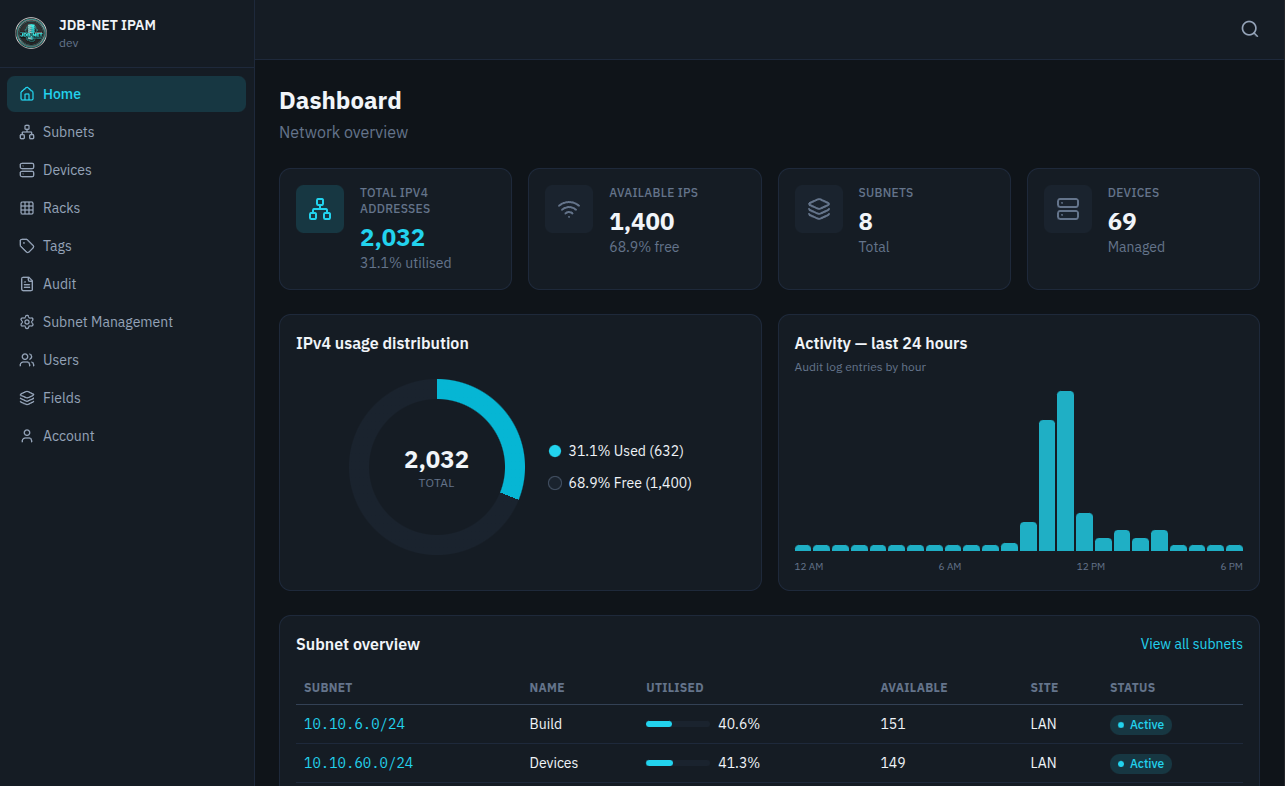
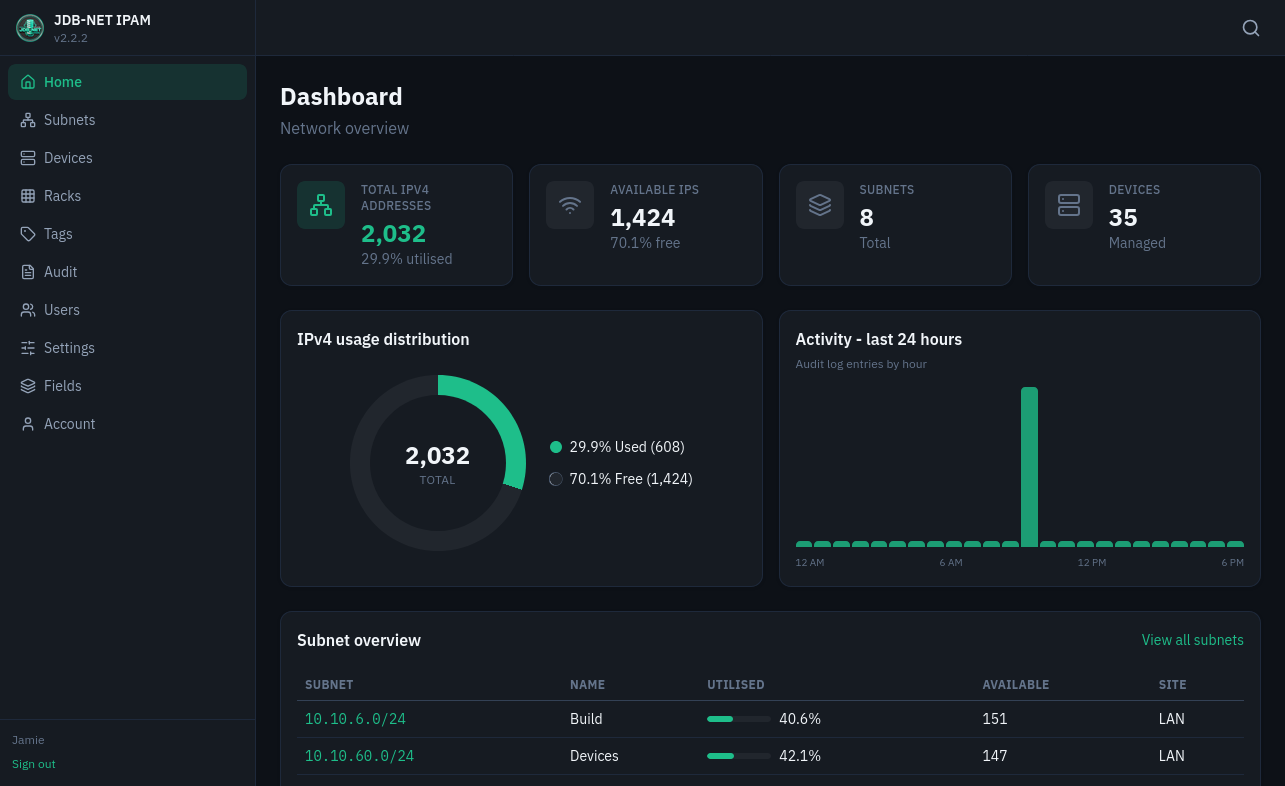
docs: :memo: update readme

diff --git a/README.md b/README.md
@@ -1,6 +1,6 @@
 <div align="center">
 
-  <h1>JDB-NET IPAM</h1>
+  <h1>IPAM</h1>
 
   <p>Open source IP address management for homelabs, small businesses, and IT teams.</p>
 
@@ -8,13 +8,10 @@
     <a href="https://github.com/jdbnet/ipam/blob/main/LICENSE">
       <img src="https://img.shields.io/github/license/jdbnet/ipam" alt="License" />
     </a>
-    <a href="https://cr.jdbnet.co.uk">
-      <img src="https://img.shields.io/badge/container-cr.jdbnet.co.uk-blue" alt="Container" />
-    </a>
   </p>
 
   <p>
-    <a href="https://www.jdbnet.co.uk/product/ipam"><strong>☁ Managed hosting from £8/month →</strong></a>
+    <a href="https://www.jdbnet.co.uk/product/ipam"><strong>☁ Managed hosting from £8/month</strong></a>
   </p>
 </div>
 
@@ -46,7 +43,7 @@ Docker Compose file.
 ```yaml
 services:
   ipam:
-    image: cr.jdbnet.co.uk/public/ipam:latest
+    image: ghcr.io/jdbnet/ipam:latest
     container_name: ipam
     restart: unless-stopped
     ports:

diff --git a/HELP.md b/HELP.md
@@ -164,7 +164,7 @@ spec:
     spec:
       containers:
       - name: ipam
-        image: cr.jdbnet.co.uk/public/ipam:latest
+        image: ghcr.io/jdbnet/ipam:latest
         ports:
         - containerPort: 5000
         env:
